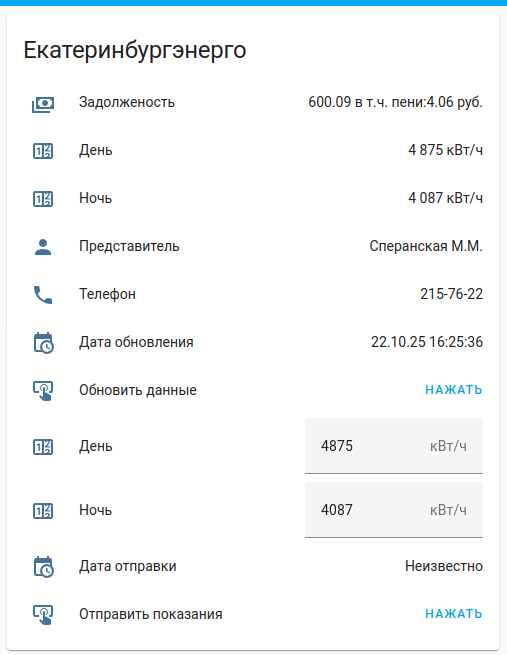
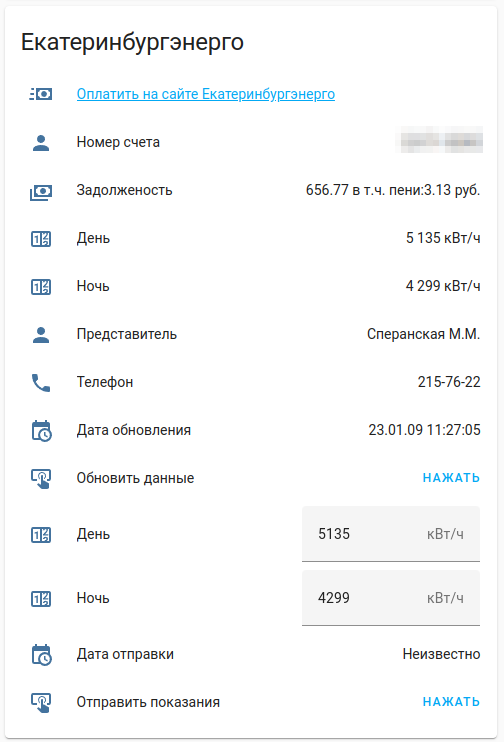
add automatization example, add pay link, upd screenshot

diff --git a/custom_components/ekenergosbyt/sensor.py b/custom_components/ekenergosbyt/sensor.py
@@ -21,7 +21,8 @@ async def async_setup_entry(hass: HomeAssistant, entry: ConfigEntry, async_add_e
         District(coordinator, ee),
         Debt(coordinator, ee),
         Manager(coordinator, ee),
-        ManagerPhone(coordinator, ee)
+        ManagerPhone(coordinator, ee),
+        Account(coordinator, ee)
     ]
 
     for iname in ee.get("indicator_data").keys():
@@ -134,6 +135,19 @@ class ManagerPhone(Default):
     @property
     def state(self):
         return self._ee.get("phone")
+
+class Account(Default):
+    _attr_icon = "mdi:account"
+
+    def __init__(self, coordinator, ee):
+        CoordinatorEntity.__init__(self=self, coordinator=coordinator)
+        self._ee = ee
+        self._attr_unique_id = f"{DOMAIN}_{self._ee.get('account')}_account"
+        self._attr_name = f"{DOMAIN}_{self._ee.get('account')} Номер счета"
+
+    @property
+    def state(self):
+        return self._ee.get("account")
 
 class Indicator(Default):
     _attr_icon = "mdi:counter"

diff --git a/readme.md b/readme.md
@@ -4,7 +4,9 @@
 Забирает данные по счетчикам и задолженности с сайта и отображает их в виде сенсора, может передавать показания. Не используется Личный кабинет, нужен только номер счета. Работает по аналогии подачи показаний с главной страницы сайта (https://www.eens.ru/pokazania).
 
 > # Внимание!
-> После отправки показаний данные обновляются не сразу! Это особенность системы учета "Екатеринбургэнергосбыт", данные обновляются в течении нескольких часов (иногда быстрее).
+> После отправки показаний данные обновляются не сразу! Это особенность системы учета "Екатеринбургэнергосбыт", данные обновляются в течении нескольких часов (иногда быстрее). 
+>
+>Обновление данных в карточке происходит каждые 7 дней.
 
 В поле `Дата отправки` будет стоять дата и время  последней успешной отправки данных (не сохраняется при перезепусках Home Assistant). Данные можно отправить и получить в любой момент по нажатию соответсвующих кнопок в интерфейсе.
 
@@ -14,7 +16,7 @@
 1. Скопируйте папку `custom_components/ekenergosbyt` в папку конфигурации Home Assistant `custom_components/ekenergosbyt` (если папка `custom_components` не существует, создайте её)
 1. Перезпустите Home Assistant
 1. В разделе `Настройки` -> `Устройства и службы` -> `Интегации` нажмите нопку `Добавить интеграцию`
-1. В списке найдете `EkaterinburgEnergoSbyt`
+1. В списке найдете `Екатеринбургэнергосбыт`
 
 
 ## Карточка Lovelaсe ##
@@ -25,6 +27,12 @@
 ```
 type: entities
 entities:
+  - type: weblink
+    url: https://www.eens.ru/online-oplata
+    name: Оплатить на сайте Екатеринбургэнерго
+    icon: mdi:cash-fast
+  - entity: sensor.ekenergosbyt_{номер вашего счета}_nomer_scheta
+    name: Номер счета
   - entity: sensor.ekenergosbyt_{номер вашего счета}_zadolzhenost
     name: Задолженость
   - entity: sensor.ekenergosbyt_{номер вашего счета}_den
@@ -50,4 +58,31 @@ entities:
 title: Екатеринбургэнерго
 ```
 
-Для автоматической отправки показаний просто создайте автоматизацию которая будет запускаться определенного числа и нажимать кнопку `Отправить показания`.
+Для автоматической отправки показаний просто создайте автоматизацию которая будет запускаться определенного числа, вводить показания в поля для отправки и нажимать кнопку `Отправить показания`.
+Пример:
+```
+alias: Electro of 23th every monts
+description: ""
+trigger:
+  - platform: time
+    at: "12:00:00"
+condition:
+  - condition: template
+    value_template: "{{ now().day == 23 }}"
+action:
+  - service: number.set_value
+    data:
+      value: "{{ states(\"input_number.power_meter_tarif1\") | int }}"
+    target:
+      entity_id: number.ekenergosbyt_{номер вашего счета}_den
+  - service: number.set_value
+    data:
+      value: "{{ states(\"input_number.power_meter_tarif2\") | int }}"
+    target:
+      entity_id: number.ekenergosbyt_{номер вашего счета}_noch
+  - device_id: f58a57a36dc09f970959254fc6ed0ff6
+    domain: button
+    entity_id: button.ekenergosbyt_{номер вашего счета}_otpravit_pokazaniia
+    type: press
+mode: single
+```
